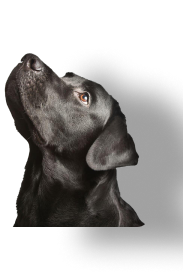
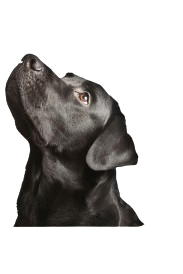
novos ajustes na home

diff --git a/src/app/home/home.page.scss b/src/app/home/home.page.scss
@@ -26,8 +26,8 @@
   position: relative;
   width: 100%; /* Ocupa toda a largura disponível */
   max-width: 1000px; /* Limita a largura máxima */
-  margin: 0px auto 32px auto; /* Centraliza horizontalmente e cria espaçamento inferior */
-  aspect-ratio: 16 / 9; /* Mantém a proporção do azul.png */
+  margin: 0 auto 32px auto; /* Centraliza horizontalmente */
+  aspect-ratio: 16 / 9; /* Mantém a proporção de azul.png */
   overflow: hidden; /* Garante que o conteúdo não extrapole os limites */
   display: flex;
   align-items: center;
@@ -75,15 +75,18 @@
 
 /* Imagem do cachorro ajustável */
 .dog-image {
-  position: absolute;
-  bottom: 3%; /* Ajuste vertical */
-  right: 0%; /* Ajuste horizontal */
+  position:absolute;
+  right: 5%; /* Alinha o cachorro à direita dentro do azul.png */
+  bottom: 5%; /* Alinha o cachorro na parte inferior */
   width: auto;
-  max-width: 170px; /* Tamanho máximo do cachorro */
-  height: auto;
-  object-fit: contain; /* Mantém proporção do cachorro */
-  z-index: 2;
+  height: 90%; /* O cachorro terá altura igual a 90% do azul.png */
+  object-fit: contain; /* Mantém a proporção do cachorro */
+  max-height: 100%; /* Garante que o cachorro não extrapole a altura do azul.png */
+  z-index: 2; /* Garante que o cachorro esteja acima do azul.png */
 }
+
+
+
 
 /* Texto descritivo */
 .description {
@@ -94,3 +97,48 @@
   max-width: 800px; /* Limita a largura */
   margin: 25px;
 }
+/* Rodapé de navegação */
+.navigation-footer {
+  position: fixed;
+  bottom: 0;
+  width: 100%;
+  background-color: #ffffff; /* Fundo branco */
+  box-shadow: 0px -2px 4px rgba(0, 0, 0, 0.1); /* Sombra leve */
+  z-index: 10; /* Acima do conteúdo */
+}
+
+.footer-buttons {
+  display: flex;
+  justify-content: space-between; /* Botões distribuídos nos lados */
+  align-items: center;
+  padding: 8px 16px;
+}
+
+/* Botões no rodapé */
+.nav-button {
+  display: flex;
+  align-items: center;
+  justify-content: center;
+  font-size: 1rem;
+  font-weight: bold;
+}
+
+.nav-button ion-icon {
+  margin-right: 8px; /* Espaço entre o ícone e o texto */
+  font-size: 1.2rem;
+}
+/* Estilização do botão de navegação */
+.navigate-button {
+  margin-top: 20px; /* Espaçamento acima do botão */
+  display: flex;
+  justify-content: center; /* Centraliza o botão */
+}
+
+ion-button {
+  font-size: 1rem;
+  font-weight: bold;
+  color: #0a7dca;
+  padding: 10px 20px;
+  border-radius: 8px;
+}
+

diff --git a/src/app/home/home.page.html b/src/app/home/home.page.html
@@ -23,6 +23,13 @@
           precisa.
         </p>
       </div>
+
+      <!-- Botão para "Adote com Amor" -->
+      <div class="navigate-button">
+        <ion-button expand="block" color="primary" routerLink="/adote-com-amor">
+          Adote com Amor
+        </ion-button>
+      </div>
     </div>
   </ion-content>
 </app-header-footer>

diff --git a/src/app/components/header-footer/header-footer.component.html b/src/app/components/header-footer/header-footer.component.html
@@ -3,7 +3,7 @@
   <ion-buttons slot="start">
     <ion-menu-button></ion-menu-button>
   </ion-buttons>
-  <ion-title></ion-title>
+  <ion-title>ConectPet</ion-title>
 </ion-toolbar>
 
 
